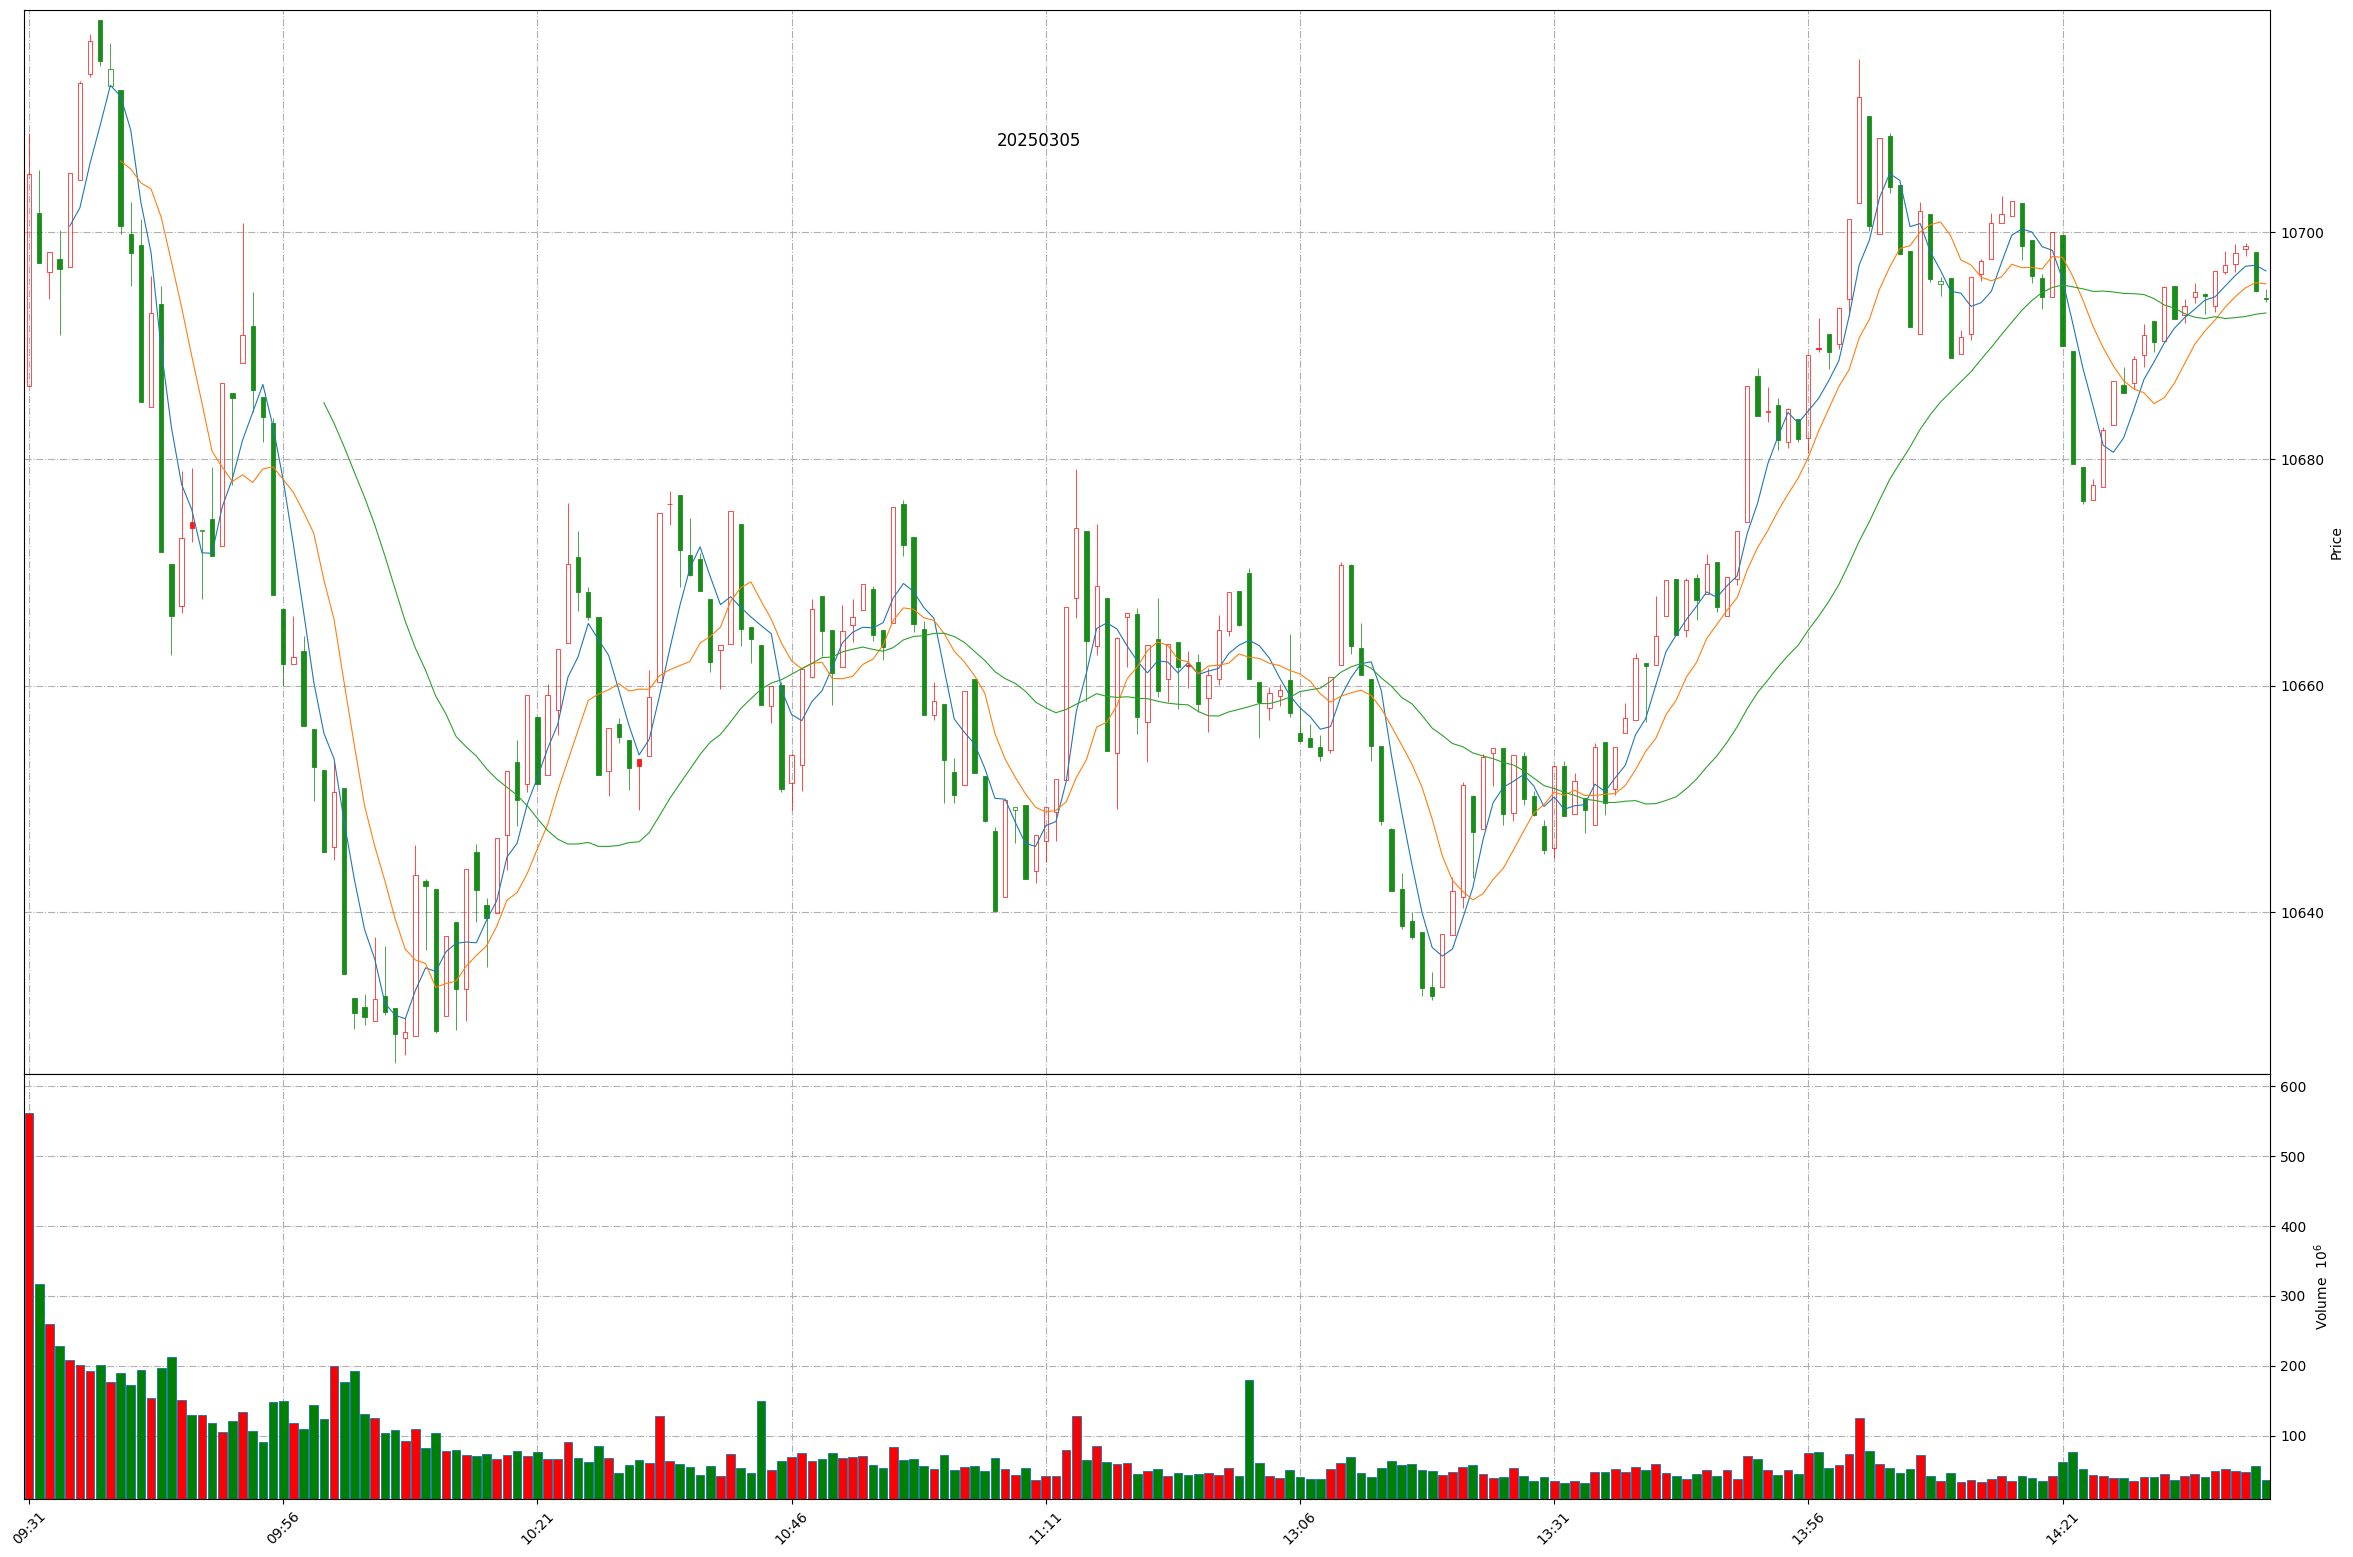
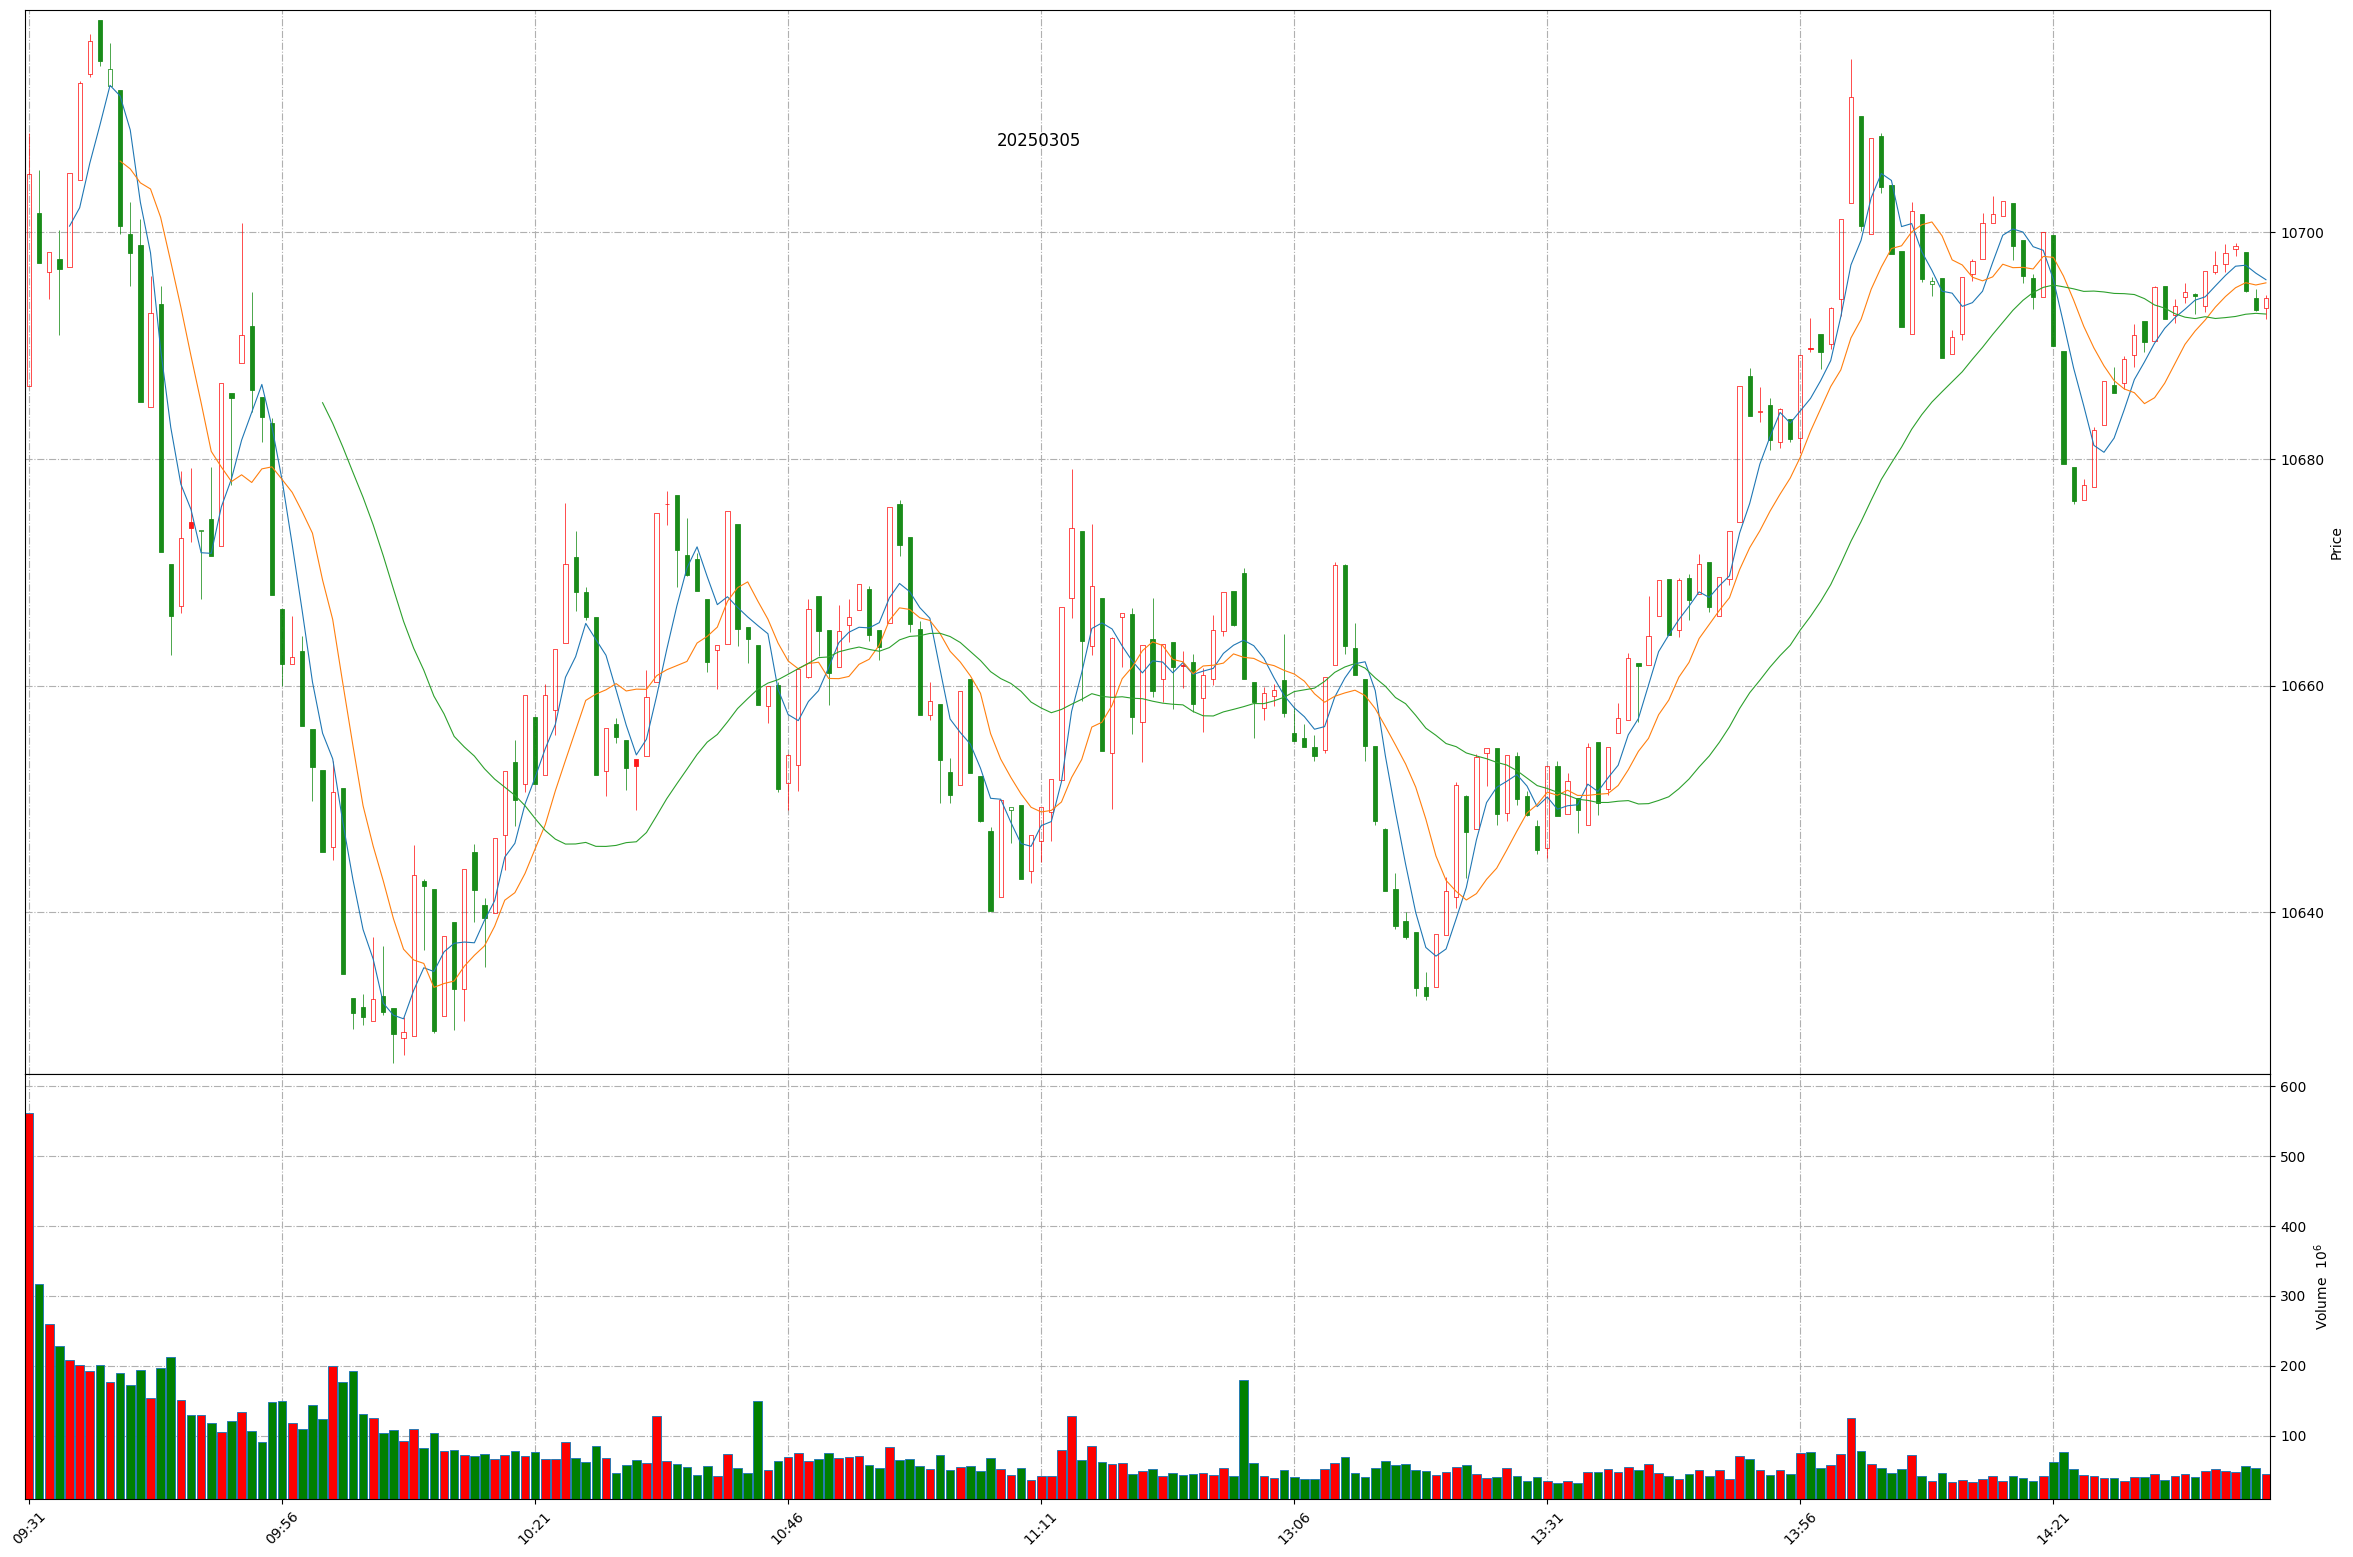
Github action update at 2025-03-05 14:42:10.

diff --git a/README.md b/README.md
@@ -1,11 +1,11 @@
 
 # Daily-A-share-market-quotes 每日 A 股指数（5min 更新）- 20250305
 
-### 上证指数 20250305 14:40
+### 上证指数 20250305 14:42
 ![](./fig/2025/3/20250305-sh000001.png)
 
-### 深证成指 20250305 14:40
+### 深证成指 20250305 14:42
 ![](./fig/2025/3/20250305-sz399001.png)
 
-### 北证50 20250305 14:40
+### 北证50 20250305 14:42
 ![](./fig/2025/3/20250305-bj899050.png)
